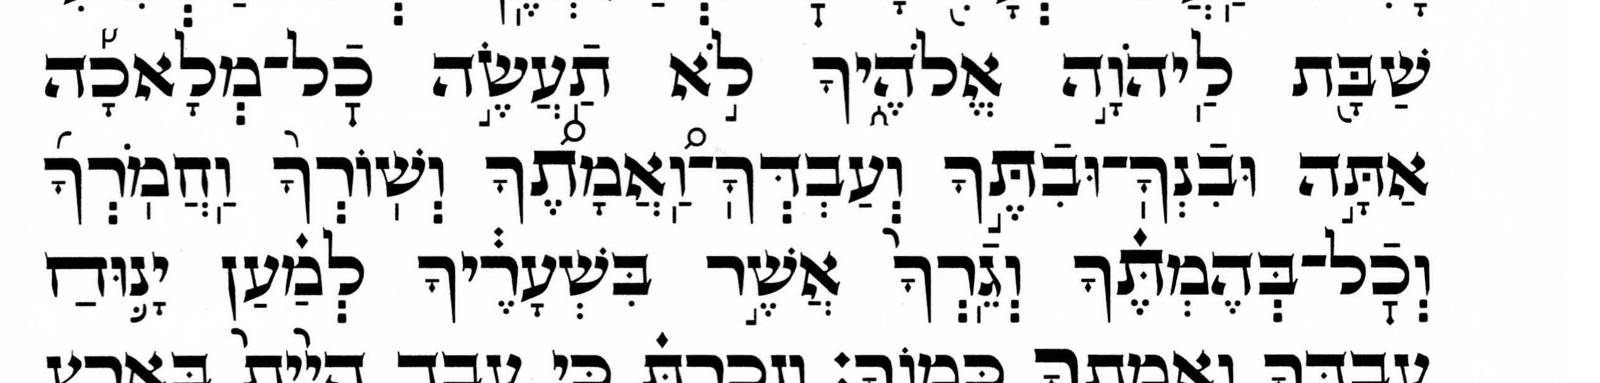
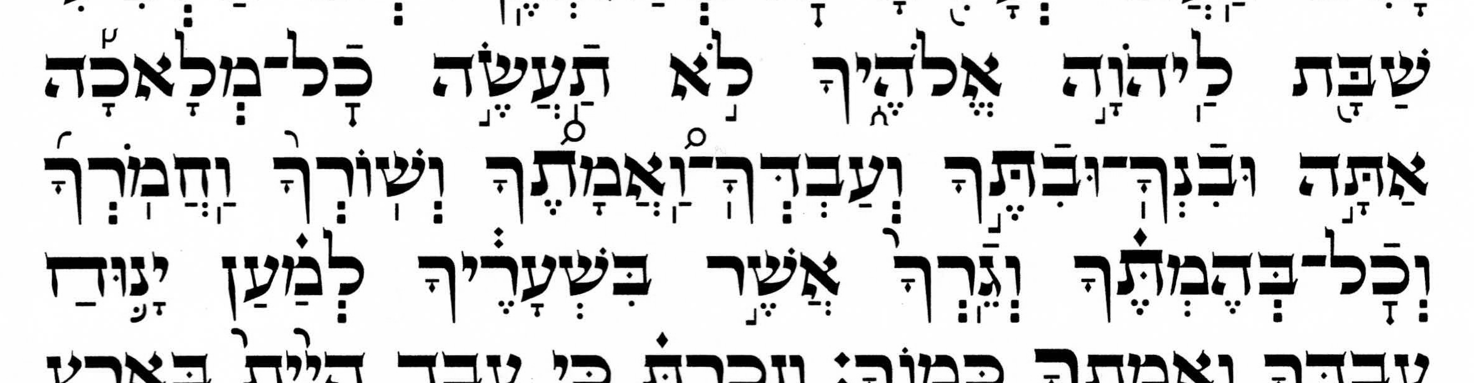
Decalogue pages: refine Simanim p-trad claim; fix p. 247 figure crop/box
Honestly a mix of two intertwined threads, committed together because the second
touches the same Simanim generator and its regenerated HTML as the first, so they
could not be cleanly split once the pages were regenerated.

1. Claim wording (companion, Koren, Simanim -- editorial). Refine "Simanim's
   Tiqqun follows the printed tradition" to separate the two things it conflated:
   Simanim follows the p-trad's *chanted verse boundaries* without exception, but
   not its every cantillation detail -- its Deuteronomy taḥton (appendix) Shabbat
   commandment carries the m-trad accents, an accents-only divergence that moves
   no chanted verse boundary. Updated across the Simanim title/intro/conclusion,
   the Koren conclusion and module docstring, and the companion page's
   cross-reference.

2. p. 247 Simanim figure (mechanics). The Shabbat-commandment crop had a lopsided
   right margin (170px vs 44px on the left) because it was originally bounded by
   the page's physical right edge rather than the right-aligned column's text.
   Trim the right margin to match the left (1600x383 -> 1474x383; the highlight
   boxes are unaffected, only the overlay viewBox width changes), and nudge the
   middle highlight box (ve'avdekha-va'amatekha) 12px right.

diff --git a/gh-pages/accgram/printed-decalogue-simanim.html b/gh-pages/accgram/printed-decalogue-simanim.html
@@ -3,14 +3,14 @@
 <html lang="en">
 <head>
 <meta charset="utf-8">
-<title>Simanim's Tiqqun follows the printed tradition for the Decalogues</title>
+<title>Simanim's Tiqqun follows the printed tradition's chanted verse boundaries for the Decalogues</title>
 <link rel="stylesheet" href="../style.css">
 </head>
 <body class="centered-page">
-<h1>Simanim's Tiqqun follows the printed tradition for the Decalogues</h1>
+<h1>Simanim's Tiqqun follows the printed tradition's chanted verse boundaries for the Decalogues</h1>
 <p>As <a href="printed-decalogue.html">the companion page</a> explains, each Decalogue has <b>four</b> strands of cantillation: the <b>printed tradition</b> (p-trad) and the <b>manuscript tradition</b> (m-trad) each have their own טעם תחתון and their own טעם עליון. The most striking difference between the four strands is how they divide up the span אנכי…מצותי into chanted verses. (This span is typically identified as comprising the first two Commandments.)</p>
-<p>That page lays out those four strands and grammar-checks the p-trad; this page serves only to document the claim that Simanim's Tiqqun follows the p-trad. Along the way it transcribes two of Simanim's notes.</p>
-<p>Simanim's Tiqqun follows the p-trad for the Decalogues. In its Exodus (Yitro) Decalogue, Simanim's main Decalogue (p. 83) is the p-trad עליון and its appendix Decalogue (p. 246) is the p-trad תחתון. Since no digital Simanim exists, I established this by visually spot-checking Simanim against <a href="https://he.wikisource.org/wiki/%D7%A2%D7%A9%D7%A8%D7%AA%20%D7%94%D7%93%D7%91%D7%A8%D7%95%D7%AA%20%D7%91%D7%A1%D7%99%D7%A1/%D7%98%D7%A2%D7%9E%D7%99%D7%9D#הטעם_התחתון_מול_הטעם_העליון_(לפי_נוסח_הדפוסים)">Hebrew Wikisource's p-trad</a>. The two scans below show enough of Simanim's Exodus Decalogues to "diagnose" them both as p-trad.</p>
+<p>That page lays out those four strands and grammar-checks the p-trad; this page serves only to document to what extent Simanim's Tiqqun follows the p-trad. Along the way it transcribes two of Simanim's notes.</p>
+<p>Simanim's Tiqqun follows the p-trad's chanted verse boundaries for the Decalogues, though not every detail of its cantillation — the one departure, at a single commandment of its Deuteronomy appendix Decalogue, is covered in <a href="#simanim-conclusion">the conclusion</a>. In its Exodus (Yitro) Decalogue, Simanim's main Decalogue (p. 83) is the p-trad עליון and its appendix Decalogue (p. 246) is the p-trad תחתון. Since no digital Simanim exists, I established this by visually spot-checking Simanim against <a href="https://he.wikisource.org/wiki/%D7%A2%D7%A9%D7%A8%D7%AA%20%D7%94%D7%93%D7%91%D7%A8%D7%95%D7%AA%20%D7%91%D7%A1%D7%99%D7%A1/%D7%98%D7%A2%D7%9E%D7%99%D7%9D#הטעם_התחתון_מול_הטעם_העליון_(לפי_נוסח_הדפוסים)">Hebrew Wikisource's p-trad</a>. The two scans below show enough of Simanim's Exodus Decalogues to "diagnose" them both as p-trad.</p>
 <figure><div class="scan-annot">
 <img src="img/Simanim-Tiqqun-p-083-Ex-Dec-elyon.png" alt="Simanim Tiqqun p. 83: the Exodus main Decalogue in the elyon" class="ink-on-white">
 <svg class="scan-annot-overlay" viewBox="0 0 961 664" preserveAspectRatio="none" aria-hidden="true">
@@ -74,14 +74,14 @@ How it maps onto the four strands</h3>
 <p>So the note has Simanim, in its own editorial voice, distinguishing two תחתון cantillations of the אנכי…עבדים span: what it prints and calls the “ordinary” (רגיל) תחתון — עבדים with <span class="romanized">silluq + sof pasuq</span>, אנכי…עבדים as its own verse, its marks identical to the m-trad עליון — versus the Keter's <span class="romanized">pashta…etnaḥta</span>, the genuine m-trad תחתון, which it sets aside. Simanim thus knows the two differ and knowingly prints the newer one — another glimpse of the same self-awareness as the p. 83 margin note.</p>
 <h2 id="simanim-conclusion">
 Conclusion</h2>
-<p>Simanim's Tiqqun follows the p-trad for the Decalogues, not the m-trad. The two traditions' most consequential divergence is at the opening commandment אנכי…עבדים, and Simanim lands on the p-trad side of that divergence on both strands: the p-trad עליון in its Exodus main Decalogue (p. 83), and the p-trad תחתון in its appendix Decalogue (p. 246).</p>
-<p>One scope note: the finding above rests on the אנכי…עבדים span — the most striking p-trad/m-trad divergence. Simanim makes the same p-trad choice at that span in both of its Decalogues: the Exodus (Yitro) one and the Deuteronomy (Vaetḥanan) one, whose עליון main Decalogue starts on p. 208. One caveat: in the Deuteronomy תחתון (appendix, p. 247), the p-trad and m-trad also diverge at the Shabbat commandment, but there Simanim follows the m-trad, not the p-trad — so its p-trad allegiance, firm at אנכי…עבדים across both Decalogues, is not absolute. The scan below is that commandment, with the three words the two traditions accent differently highlighted.</p>
+<p>Simanim's Tiqqun follows the p-trad for the Decalogues, not the m-trad — fully as to chanted verse boundaries, though (per the first scope note below) not in every cantillation detail. The two traditions' most consequential divergence is at the opening commandment אנכי…עבדים — within each strand, a divergence of chanted verse boundaries: one tradition gives that span its own chanted verse where the other runs it on. Simanim lands on the p-trad side of that divergence on both strands: the p-trad עליון in its Exodus main Decalogue (p. 83), and the p-trad תחתון in its appendix Decalogue (p. 246).</p>
+<p>One scope note: the finding above rests on the אנכי…עבדים span — the most striking p-trad/m-trad divergence. Simanim makes the same p-trad choice at that span in both of its Decalogues: the Exodus (Yitro) one and the Deuteronomy (Vaetḥanan) one, whose עליון main Decalogue starts on p. 208. One caveat: in the Deuteronomy תחתון (appendix, p. 247), the p-trad and m-trad also diverge at the Shabbat commandment, but there Simanim follows the m-trad, not the p-trad. That divergence, though, is one of accents alone: the two traditions divide the Shabbat commandment into chanted verses identically, differing only on some mid-verse accents. So the precise extent of Simanim's p-trad allegiance is as the title states it: Simanim follows the p-trad's chanted verse boundaries without exception, but not its every cantillation detail. The scan below is that commandment, with the three words the two traditions accent differently highlighted.</p>
 <figure><div class="scan-annot">
 <img src="img/Simanim-Tiqqun-p-247-Deut-Dec-m-trad-taxton-Shabbat.png" alt="Simanim Tiqqun p. 247: the Shabbat commandment of the Deuteronomy appendix Decalogue, in the m-trad taḥton" class="ink-on-white">
-<svg class="scan-annot-overlay" viewBox="0 0 1600 383" preserveAspectRatio="none" aria-hidden="true">
+<svg class="scan-annot-overlay" viewBox="0 0 1474 383" preserveAspectRatio="none" aria-hidden="true">
 <rect x="12" y="13" width="400" height="122" rx="6">
 </rect>
-<rect x="453" y="111" width="457" height="128" rx="6">
+<rect x="465" y="111" width="457" height="128" rx="6">
 </rect>
 <rect x="1052" y="218" width="407" height="121" rx="6">
 </rect>

diff --git a/gh-pages/accgram/printed-decalogue-koren.html b/gh-pages/accgram/printed-decalogue-koren.html
@@ -43,7 +43,7 @@ Translation</h3>
 Conclusion</h2>
 <p>Koren follows the p-trad for the Decalogues, not the m-trad. The two traditions' most consequential divergence is at the opening commandment אנכי…עבדים, and Koren lands on the p-trad side of that divergence on both strands: the p-trad תחתון in its Exodus main Decalogue (p. 113), and the p-trad עליון in its appendix Decalogue (p. A38).</p>
 <p>One scope note: the finding above rests on the אנכי…עבדים span — the most striking p-trad/m-trad divergence. Koren makes the same p-trad choice at that span in both of its Decalogues: the Exodus one and the Deuteronomy (Vaetḥanan) one, whose תחתון main Decalogue starts on p. 280 and runs onto p. 281. There too אנכי…עבדים is its own chanted verse, closing on עבדים with a <span class="romanized">silluq + sof pasuq</span>.</p>
-<p>Koren's Deuteronomy also reaches a divergence its Exodus Decalogue cannot: the Shabbat commandment, where the p-trad and m-trad part again. There too Koren shows the p-trad — so its p-trad allegiance is unqualified, where the <a href="printed-decalogue-simanim.html">Simanim page</a> finds Simanim's Tiqqun following the m-trad at that very commandment. The scan below is that commandment. One boundary on all this: what I have checked in Deuteronomy is the תחתון; I have not chased Koren's Deuteronomy עליון through its appendix, so the Deuteronomy half of the claim rests on the תחתון alone.</p>
+<p>Koren's Deuteronomy also reaches a divergence its Exodus Decalogue cannot: the Shabbat commandment, where the p-trad and m-trad part again. There too Koren shows the p-trad — so its p-trad allegiance is unqualified, where the <a href="printed-decalogue-simanim.html">Simanim page</a> finds Simanim's Tiqqun following the m-trad accents at that very commandment (an accents-only departure — Simanim's Tiqqun still follows the p-trad's chanted verse boundaries). The scan below is that commandment. One boundary on all this: what I have checked in Deuteronomy is the תחתון; I have not chased Koren's Deuteronomy עליון through its appendix, so the Deuteronomy half of the claim rests on the תחתון alone.</p>
 <figure><img src="img/Koren-p-281-Dt-Dec-Shabbat-p-trad-taxton.png" alt="Koren p. 281: the Shabbat commandment of the Deuteronomy Decalogue, in the p-trad taḥton" class="ink-on-white">
 <figcaption>The Shabbat commandment of Koren's Deuteronomy (Vaetḥanan) main Decalogue (p. 281), in the p-trad תחתון. Two of the p-trad's characteristic choices here: כָל־מְלָאכָ֜ה has a <span class="romanized">geresh</span> where the m-trad has a <span class="romanized">pazer</span>, and וְכָל־בְּהֶמְתֶּ֔ךָ has a <span class="romanized">zaqef qatan</span> where the m-trad has a <span class="romanized">revia</span>.</figcaption>
 </figure>

diff --git a/gh-pages/accgram/printed-decalogue.html b/gh-pages/accgram/printed-decalogue.html
@@ -65,7 +65,7 @@ A tidier nesting — until you scrutinize it</h3>
 <h2>
 Source</h2>
 <p>All eight strands (two books × תחתון/עליון × m-trad/p-trad) are taken from the Wikisource base page <a href="https://he.wikisource.org/wiki/עשרת_הדברות_בסיס/טעמים">עשרת הדברות בסיס/טעמים</a> (revision 2810844, 2023-10-22), which every p-trad-vs-m-trad comparison table there transcludes. A handful of wiki templates are resolved to plain pointed text (<span class="romanized">legarmeh</span> and <span class="romanized">paseq</span> both conflated down to a Unicode PASEQ, qere for ketiv-qere, setumah and petuḥah divisions dropped); the chanted verses are split at <span class="romanized">sof pasuq</span>.</p>
-<p>See also <a href="printed-decalogue-simanim.html">this document on the Decalogues in the Simanim Tiqqun</a> — its main Decalogue uses the p-trad עליון and its appendix Decalogue the p-trad תחתון.</p>
+<p>See also <a href="printed-decalogue-simanim.html">this document on the Decalogues in the Simanim Tiqqun</a> — its main Decalogue uses the p-trad עליון and its appendix Decalogue the p-trad תחתון. More precisely, it follows the p-trad's chanted verse boundaries but not its every cantillation detail: at the Shabbat commandment, its Deuteronomy appendix Decalogue has the m-trad accents.</p>
 <p>See also <a href="printed-decalogue-koren.html">this document on the Decalogues in the Koren Tanakh</a> — it has the p-trad תחתון in its Exodus main Decalogue and the p-trad עליון in its appendix Decalogue.</p>
 <h2 id="tahton-details">
 Appendix: how the two תחתון strands differ</h2>

diff --git a/py/accgram/printed_decalogue_simanim_page.py b/py/accgram/printed_decalogue_simanim_page.py
@@ -1,5 +1,8 @@
 r"""Generate gh-pages/accgram/printed-decalogue-simanim.html -- does Simanim's Tiqqun follow
-the printed or the manuscript Decalogue tradition?  Answer: the printed tradition (issue #62).
+the printed or the manuscript Decalogue tradition?  Answer: the printed tradition (issue #62) --
+precisely, it follows the p-trad's chanted verse boundaries, but not its every cantillation
+detail: the Shabbat commandment of its Deuteronomy taḥton (appendix) Decalogue has the m-trad
+accents, an accents-only divergence that moves no chanted verse boundary (see ``_conclusion``).
 
 Companion to ``printed_decalogue_page`` (issue #52, which grammar-checks the printed vs
 manuscript Decalogue accentuations and lays out the four cantillation strands).  This page ports
@@ -71,7 +74,14 @@ from py_html.my_html_span_romanized import rmn
 
 import repo_paths
 
-REPORT_TITLE = "Simanim's Tiqqun follows the printed tradition for the Decalogues"
+# "chanted verse boundaries", not a bare "the printed tradition": the Tiqqun's p-trad allegiance
+# is exceptionless for chanted verse boundaries but not for every cantillation detail -- its
+# Deuteronomy taḥton Shabbat commandment has the m-trad accents (the first scope note in
+# _conclusion). The title claims only the exceptionless part.
+REPORT_TITLE = (
+    "Simanim's Tiqqun follows the printed tradition's chanted verse boundaries"
+    " for the Decalogues"
+)
 
 # _ISSUE_52 = "https://github.com/bdenckla/wlc-utils/issues/52"
 # _ISSUE_56 = "https://github.com/bdenckla/wlc-utils/issues/56"
@@ -137,7 +147,7 @@ _TANAKH_EX_ELYON_IMG = "img/Simanim-Tanakh-p-350-Ex-Dec-elyon-m-trad.png"
 # grayscale, reduced-resolution crop of the pointed (taxton) column, cropped to just the stretch
 # the two traditions accent differently.
 _P247_DT_IMG = "img/Simanim-Tiqqun-p-247-Deut-Dec-m-trad-taxton-Shabbat.png"
-# Highlight rectangles in the p. 247 crop's pixel space (1600x383, the crop's own resolution = the
+# Highlight rectangles in the p. 247 crop's pixel space (1474x383, the crop's own resolution = the
 # overlay viewBox). Each Box marks one of the three maqaf-joined words the two traditions accent
 # differently -- the disjunctive word ending each row of the companion page's Sabbath-diff table:
 # kol-melakha (m-trad pazer, not the p-trad geresh), ve'avdekha-va'amatekha, and vekhol-behemtekha
@@ -145,7 +155,7 @@ _P247_DT_IMG = "img/Simanim-Tiqqun-p-247-Deut-Dec-m-trad-taxton-Shabbat.png"
 # py/accgram/gen_highlight_picker.py (drag boxes over the words, export the `px` boxes).
 _P247_BOXES: tuple[mhi.Box, ...] = (
     mhi.Box(x=12, y=13, w=400, h=122),
-    mhi.Box(x=453, y=111, w=457, h=128),
+    mhi.Box(x=465, y=111, w=457, h=128),
     mhi.Box(x=1052, y=218, w=407, h=121),
 )
 
@@ -223,7 +233,7 @@ _PARA_1 = (
 # The continuation is this page's own second paragraph (the companion page's differs).
 _PARA_2 = (
     "That page lays out those four strands and grammar-checks the p-trad; this page serves only to"
-    " document the claim that Simanim's Tiqqun follows the p-trad."
+    " document to what extent Simanim's Tiqqun follows the p-trad."
     " Along the way it transcribes two of Simanim's notes.",
 )
 
@@ -277,7 +287,11 @@ def _intro(source: dict) -> tuple[object, ...]:
         H.para(_PARA_2),
         H.para(
             (
-                "Simanim's Tiqqun follows the p-trad for the Decalogues. In its Exodus"
+                "Simanim's Tiqqun follows the p-trad's chanted verse boundaries for the"
+                " Decalogues, though not every detail of its cantillation — the one departure,"
+                " at a single commandment of its Deuteronomy appendix Decalogue, is covered in ",
+                link("the conclusion", "#simanim-conclusion"),
+                ". In its Exodus"
                 " (Yitro) Decalogue, Simanim's main Decalogue (p. 83) is the p-trad"
                 f" {_ELYON} and its appendix Decalogue (p. 246) is the p-trad {_TAHTON}"
                 ". Since no digital Simanim exists, I established this by"
@@ -645,9 +659,13 @@ def _conclusion() -> tuple[object, ...]:
         H.heading_level_2("Conclusion", {"id": "simanim-conclusion"}),
         H.para(
             (
-                "Simanim's Tiqqun follows the p-trad for the Decalogues, not the m-trad. The two"
+                "Simanim's Tiqqun follows the p-trad for the Decalogues, not the m-trad — fully"
+                " as to chanted verse boundaries, though (per the first scope note below) not in"
+                " every cantillation detail. The two"
                 " traditions' most consequential divergence is at the opening commandment"
-                " אנכי…עבדים, and Simanim lands"
+                " אנכי…עבדים — within each strand, a divergence of chanted verse boundaries: one"
+                " tradition gives that span its own chanted verse where the other runs it on."
+                " Simanim lands"
                 f" on the p-trad side of that divergence on both strands: the p-trad {_ELYON} in"
                 " its Exodus",
                 f" main Decalogue (p. 83), and the p-trad {_TAHTON} in its appendix Decalogue"
@@ -667,10 +685,14 @@ def _conclusion() -> tuple[object, ...]:
                 f" Deuteronomy (Vaetḥanan) one, whose {_ELYON} main Decalogue starts on p. 208."
                 " One caveat: in the"
                 f" Deuteronomy {_TAHTON} (appendix, p. 247), the p-trad and m-trad also diverge at"
-                " the Shabbat commandment, but there Simanim follows the m-trad, not the p-trad —"
-                " so its p-trad allegiance, firm at אנכי…עבדים across both Decalogues, is not"
-                " absolute. The scan below is that commandment, with the three words the two"
-                " traditions accent differently highlighted.",
+                " the Shabbat commandment, but there Simanim follows the m-trad, not the p-trad."
+                " That divergence, though, is one of accents alone: the two traditions divide the"
+                " Shabbat commandment into chanted verses identically, differing only on some"
+                " mid-verse accents. So the precise extent of Simanim's p-trad allegiance is as"
+                " the title states it: Simanim follows the p-trad's chanted verse boundaries"
+                " without exception, but not its every cantillation detail. The scan below is"
+                " that commandment, with the three words the two traditions accent differently"
+                " highlighted.",
             )
         ),
         _figure(
@@ -691,7 +713,7 @@ def _conclusion() -> tuple[object, ...]:
             ),
             width=None,
             boxes=_P247_BOXES,
-            viewbox=(1600, 383),
+            viewbox=(1474, 383),
         ),
         H.para(
             (

diff --git a/py/accgram/printed_decalogue_koren_page.py b/py/accgram/printed_decalogue_koren_page.py
@@ -54,7 +54,8 @@ disambiguates them.)
 Koren's Deuteronomy (Vaetxanan) Decalogue *has* now been spot-checked (issue #66), so the claim is
 no longer Exodus-scoped: Koren shows the p-trad in both books.  The Deuteronomy check also reaches
 a second divergence point the Exodus scans cannot -- the Shabbat commandment -- where Koren again
-shows the p-trad, and where Simanim's Tiqqun does not.  See the conclusion's scope note.
+shows the p-trad, and where Simanim's Tiqqun does not (an accents-only departure: Simanim's Tiqqun
+still follows the p-trad's chanted verse boundaries).  See the conclusion's scope note.
 
 Regenerate with ``main_accgram.py generate-html``; test with
 ``tests/test_printed_decalogue_koren.py`` (plus the tree-wide ``tests/test_transliterations.py``).
@@ -394,7 +395,9 @@ def _conclusion() -> tuple[object, ...]:
                 " Shabbat commandment, where the p-trad and m-trad part again. There too Koren"
                 " shows the p-trad — so its p-trad allegiance is unqualified, where the ",
                 link("Simanim page", _SIMANIM_PAGE),
-                " finds Simanim's Tiqqun following the m-trad at that very commandment. The scan"
+                " finds Simanim's Tiqqun following the m-trad accents at that very commandment"
+                " (an accents-only departure — Simanim's Tiqqun still follows the p-trad's"
+                " chanted verse boundaries). The scan"
                 " below is that commandment. One boundary on all this: what I have checked in"
                 " Deuteronomy is the ",
                 _TAHTON,

diff --git a/py/accgram/printed_decalogue_page.py b/py/accgram/printed_decalogue_page.py
@@ -789,7 +789,9 @@ def _provenance_section(source: dict) -> tuple[object, ...]:
                 ),
                 f" — its main Decalogue uses the p-trad {_ELYON} "
                 "and its appendix Decalogue the p-trad "
-                f"{_TAHTON}.",
+                f"{_TAHTON}. More precisely, it follows the p-trad's chanted verse boundaries but"
+                " not its every cantillation detail: at the Shabbat commandment, its Deuteronomy"
+                " appendix Decalogue has the m-trad accents.",
             )
         ),
         H.para(
